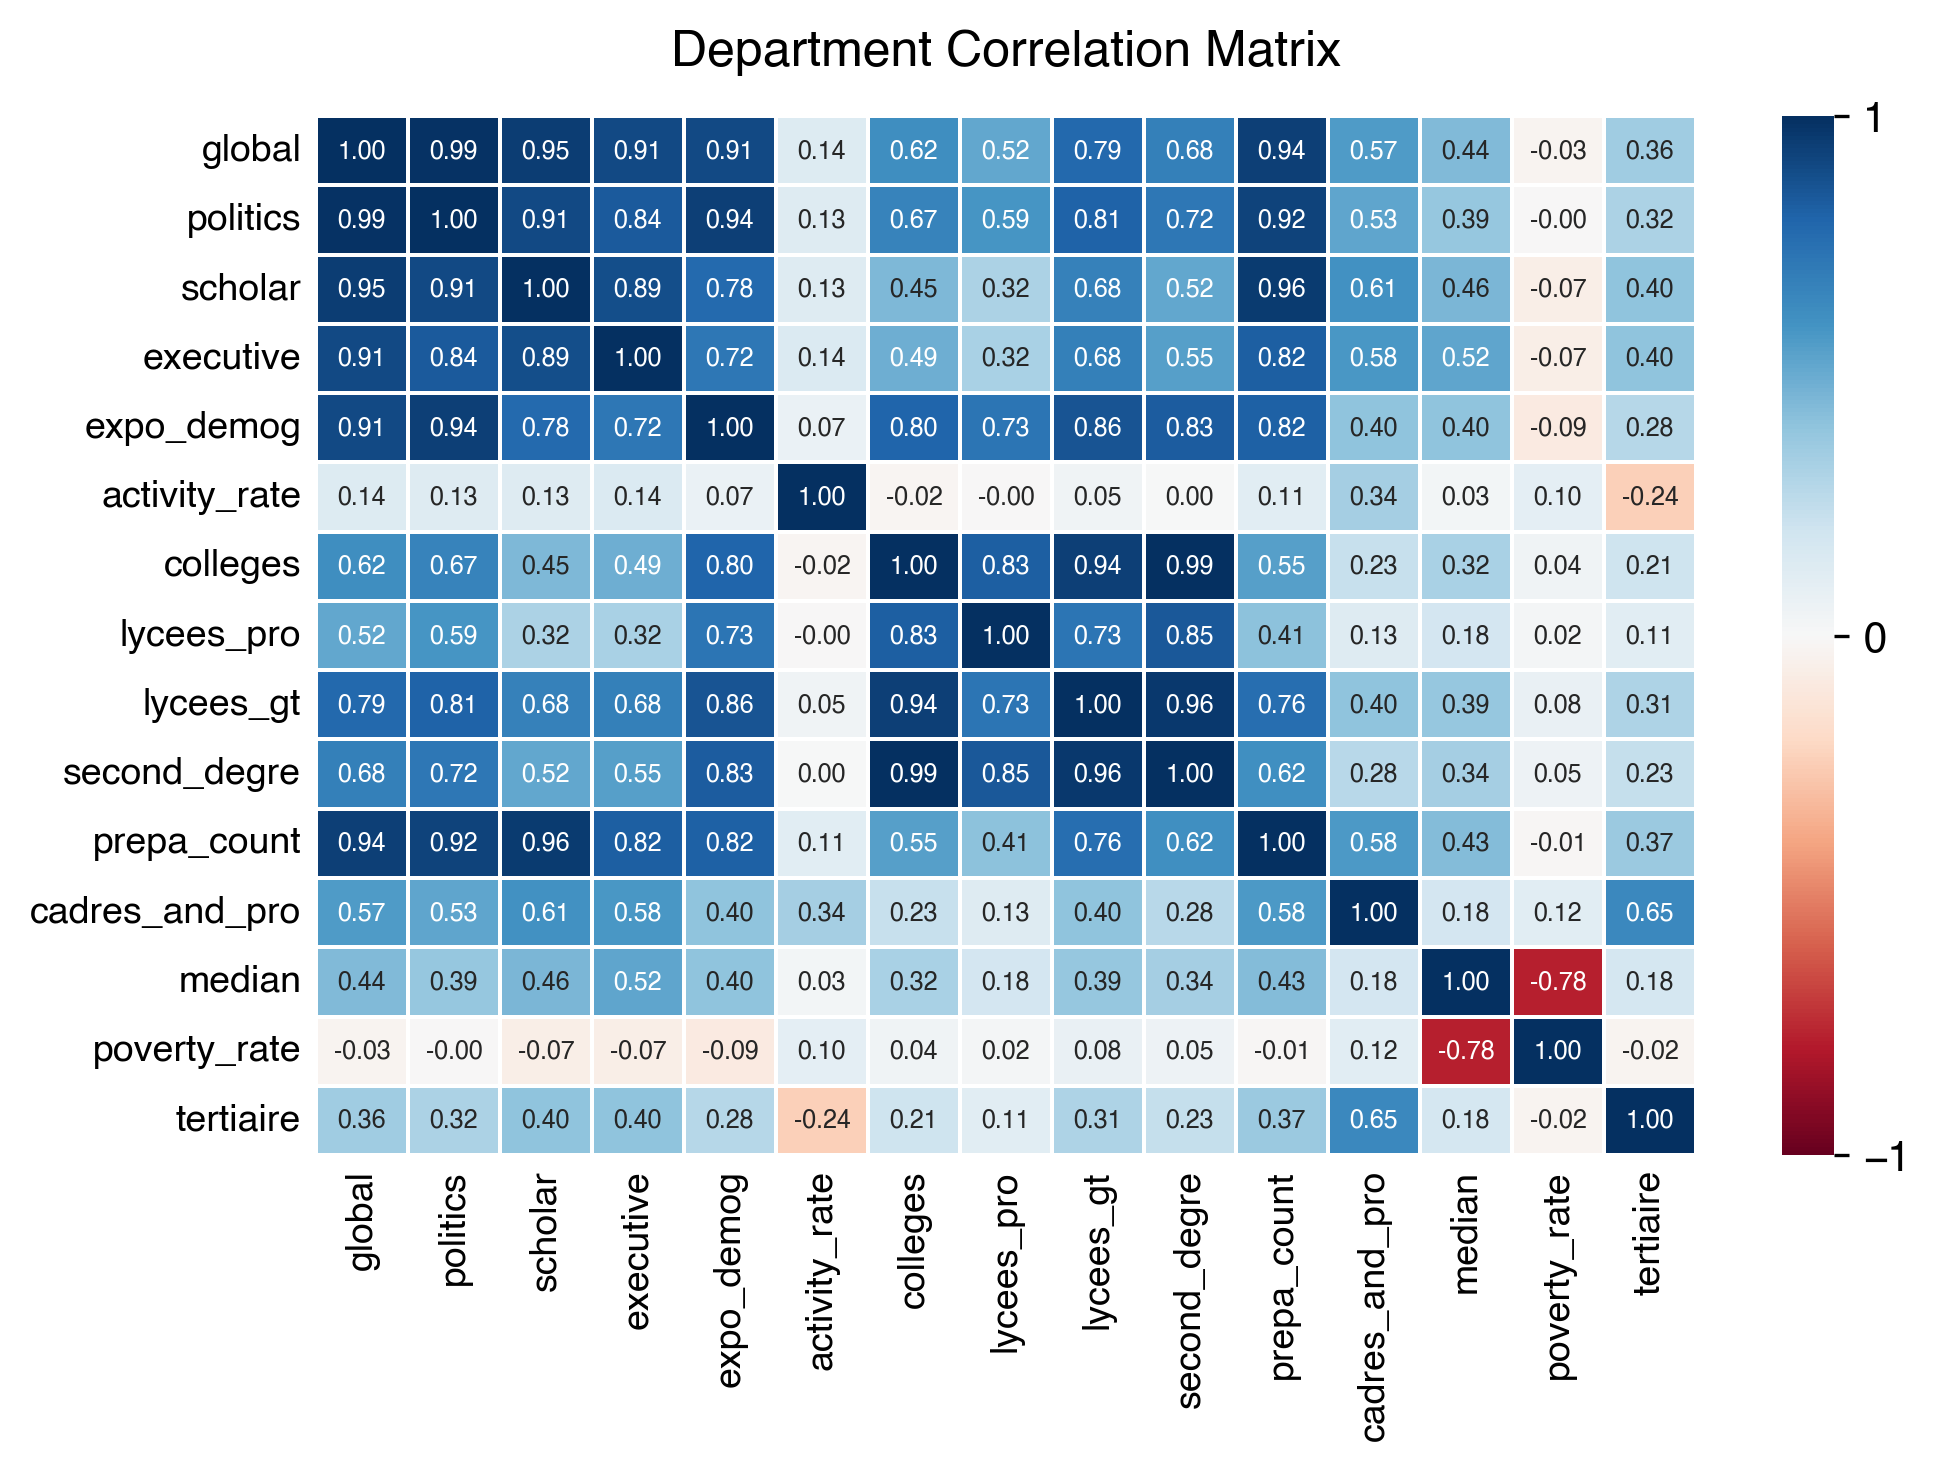
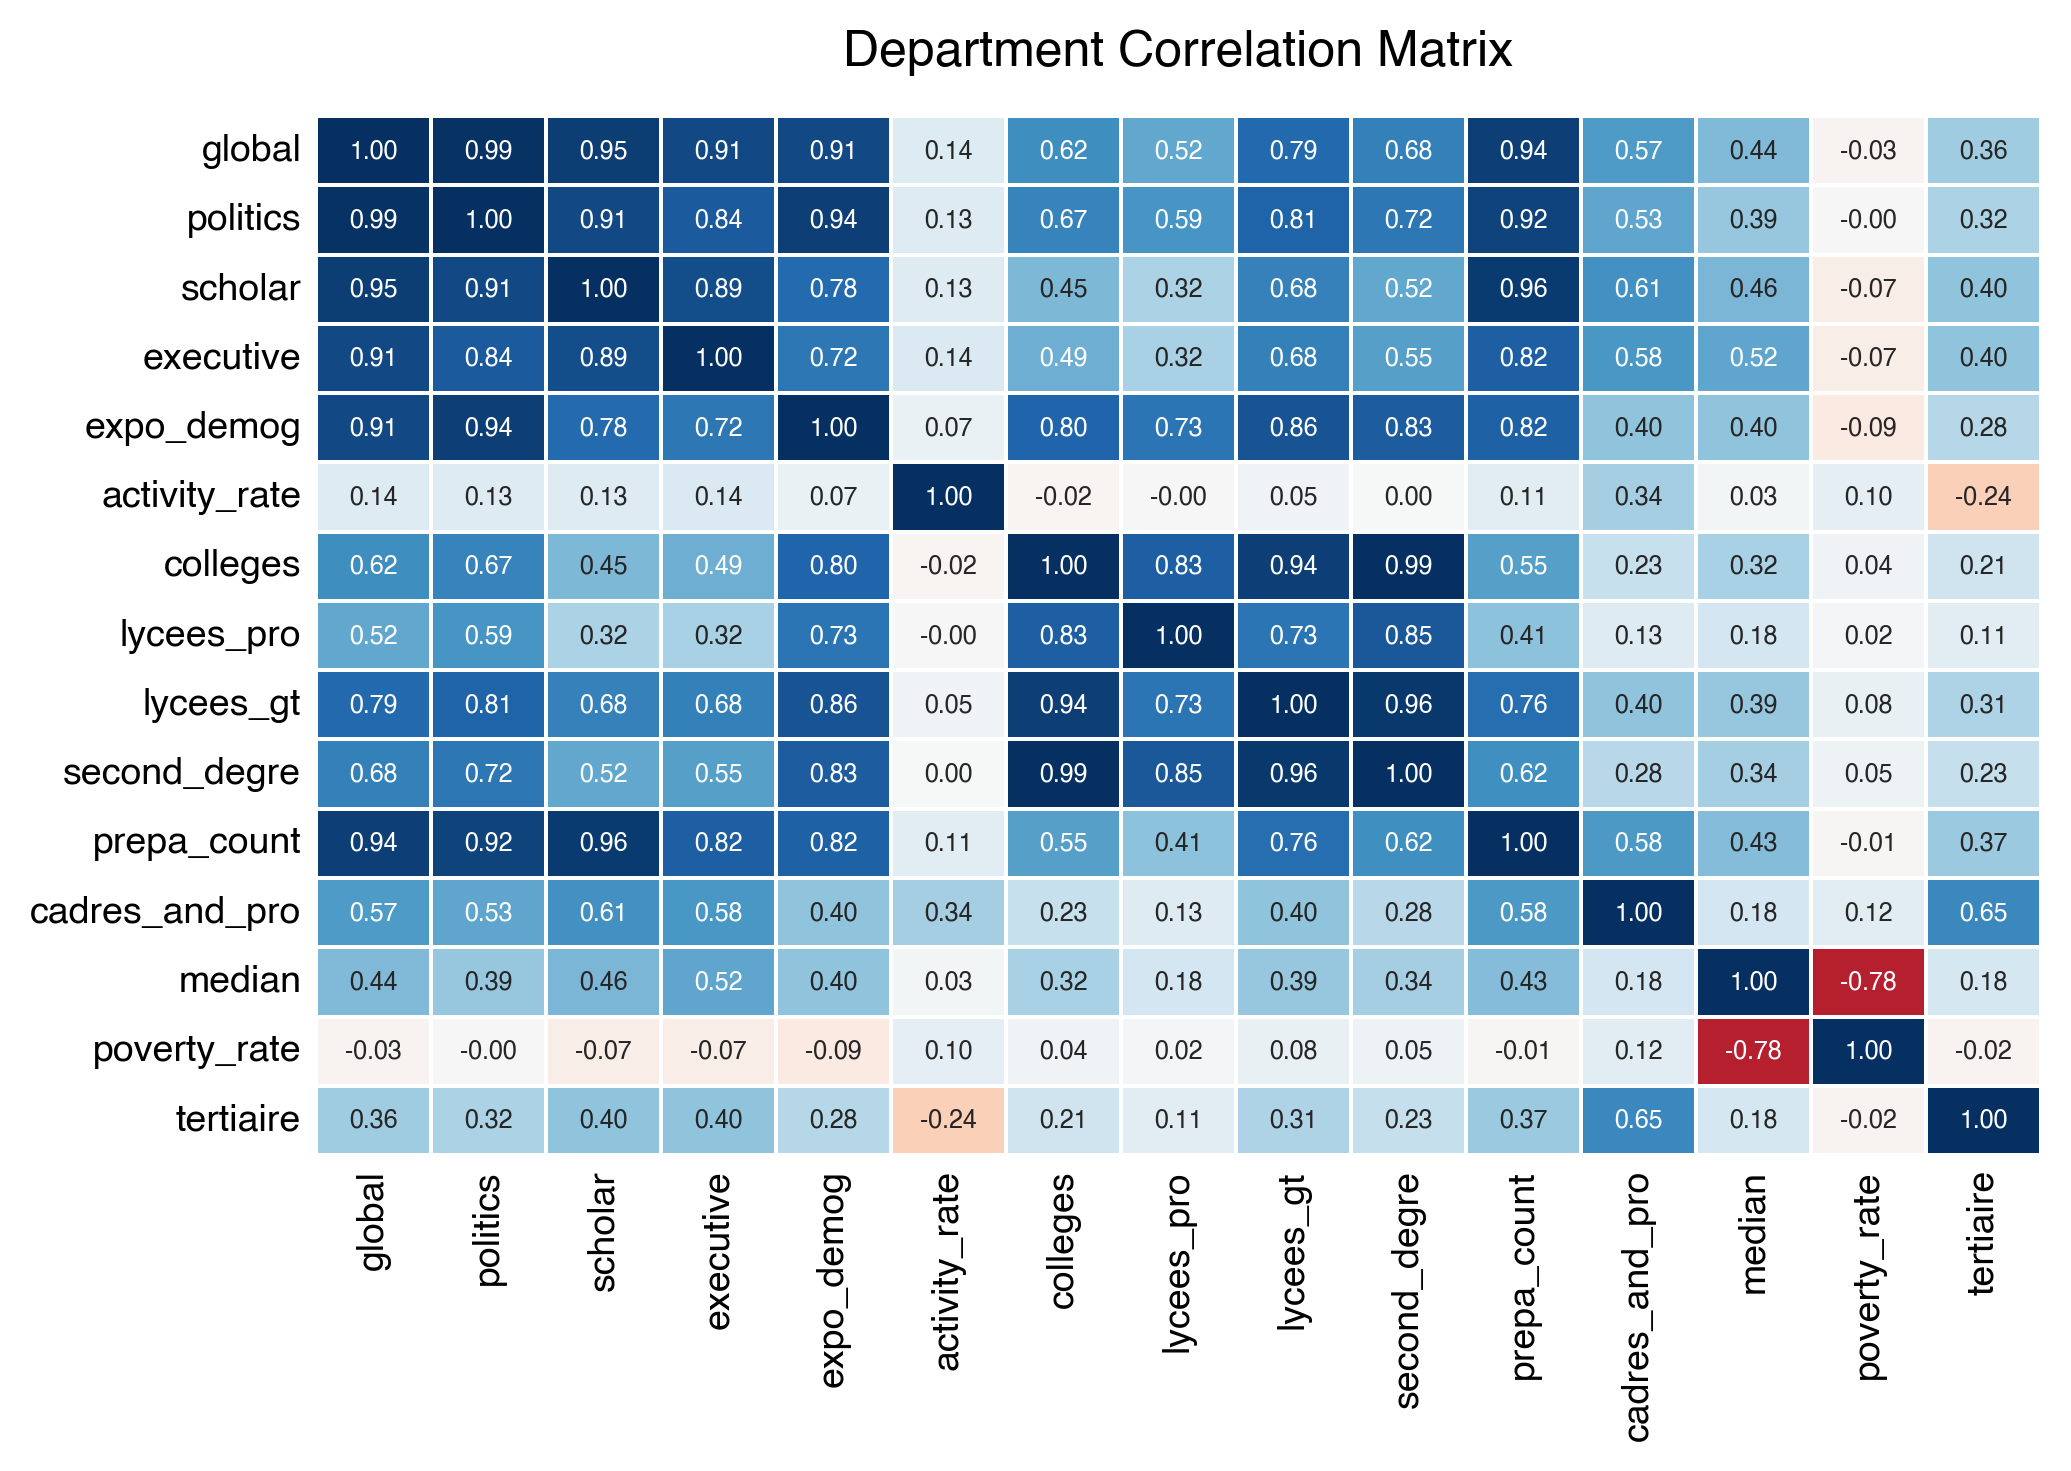
illustrations update

diff --git a/analysis/analyse.py b/analysis/analyse.py
@@ -301,6 +301,7 @@ def heatmap_correlation(df, level_name, groups, eco_vars):
         vmin=-1, vmax=1, center=0,
         annot=True, fmt='.2f', annot_kws={'size': 6},
         linewidths=0.5, linecolor='white',
+        cbar=False,
         cbar_kws={'ticks': [-1, 0, 1]},
     )
     ax.set_title(f'{level_name} Correlation Matrix', pad=12, fontname='Helvetica')
